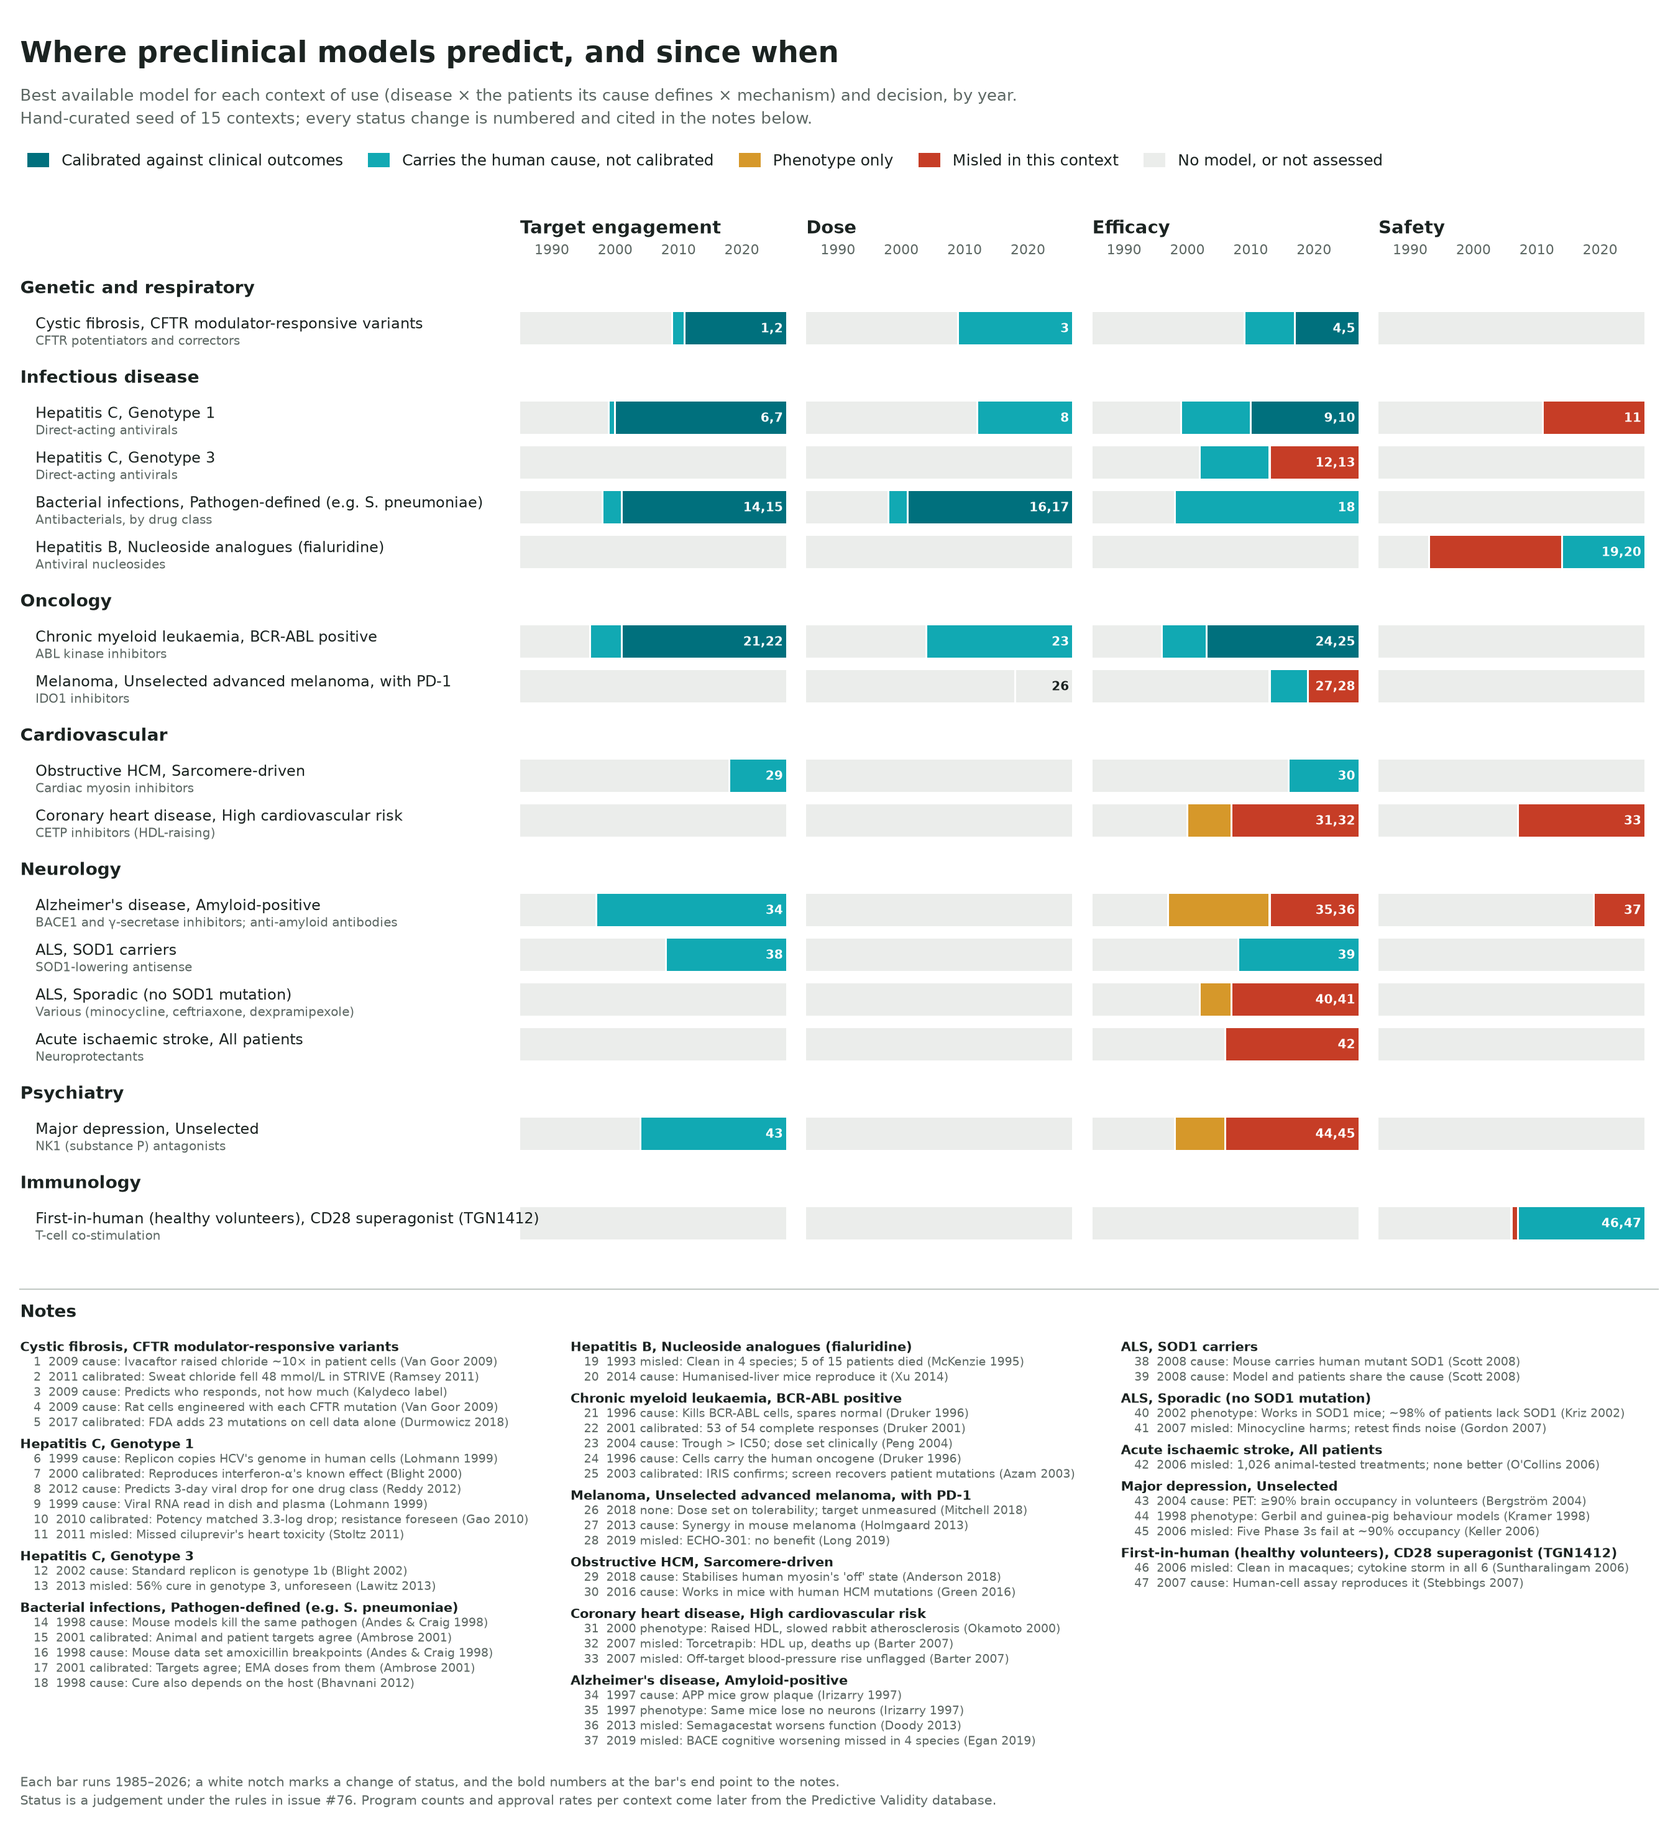
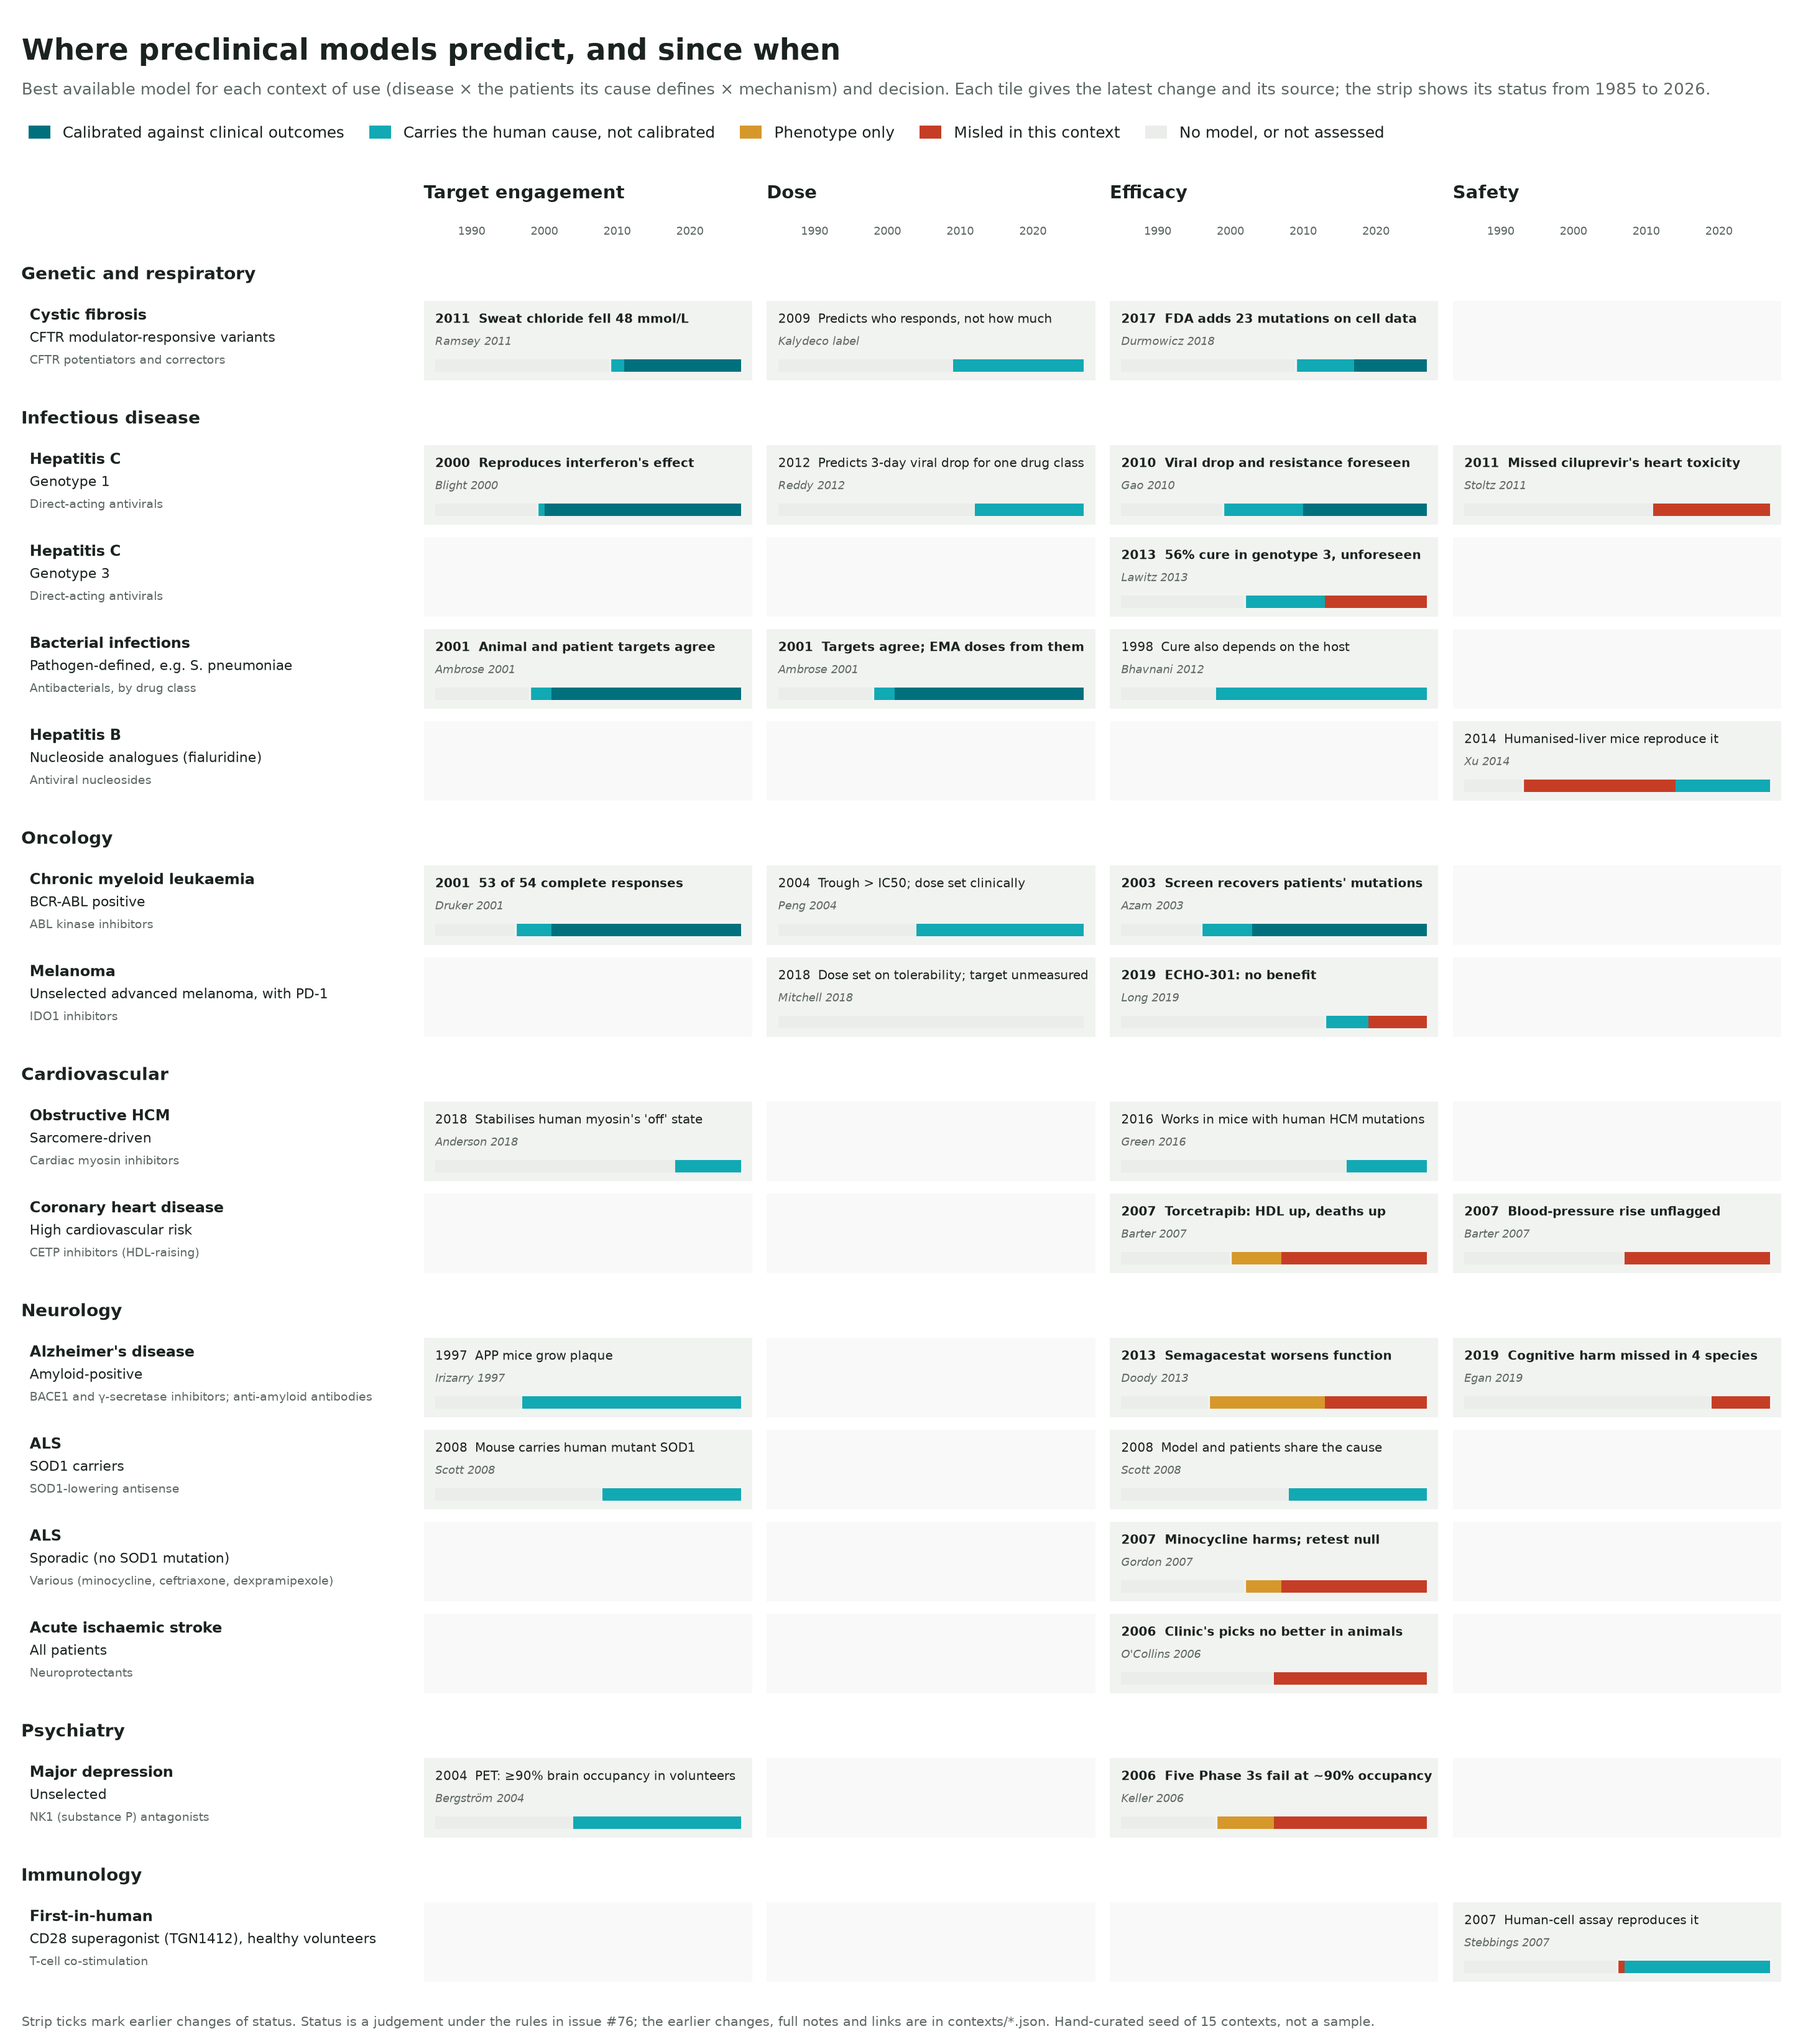
Atlas figure: one tile per cell with its latest change, source and a status-by-year strip

diff --git a/analyses/model-system-atlas/figure.py b/analyses/model-system-atlas/figure.py
@@ -6,7 +6,7 @@ available preclinical model in every year from 1985 to 2026.
 Reads one JSON file per context from contexts/ and writes atlas.png beside this file. Each context
 file holds `cells`: for each decision, a list of {year, status, note, src} entries, each the year the
 best model reached that status. A cell's status in a year is that of the latest entry at or before it.
-Every entry is numbered on its bar and listed with its note and source below the matrix.
+Each tile shows the cell's latest change (year, short note, source) above a strip of its status by year.
 """
 
 import glob
@@ -26,6 +26,7 @@ STATUS = {
     "misled": ("#c63d26", "Misled in this context"),
     "none": ("#ebedeb", "No model, or not assessed"),
 }
+TILE, TILE_EMPTY = "#f1f3f1", "#f8f9f8"
 SHORT = {"cal": "calibrated", "cause": "cause", "pheno": "phenotype", "misled": "misled", "none": "none"}
 INK, MUTED, RULE = "#1b2321", "#5c6763", "#c4cbc7"
 
@@ -52,112 +53,75 @@ def spans(history):
 
 def main():
     rows = load()
-    layout = []  # ("area", name) or ("ctx", row)
+    layout = []  # ("area", name) or ("ctx", row), each with its height in inches
     for r in rows:
-        if not any(k == "area" and v == r["area"] for k, v in layout):
-            layout.append(("area", r["area"]))
-        layout.append(("ctx", r))
+        if not any(k == "area" and v == r["area"] for k, v, _ in layout):
+            layout.append(("area", r["area"], 0.42))
+        layout.append(("ctx", r, 0.74))
 
-    # Number every status change, row by row and decision by decision; the notes block lists them.
-    notes, cell_nums = [], {}
-    for kind, item in layout:
-        if kind == "area":
-            continue
-        for key, title in DECISIONS:
-            for h in sorted(item["cells"].get(key, []), key=lambda h: h["year"]):
-                notes.append((len(notes) + 1, item, title, h))
-                cell_nums.setdefault((id(item), key), []).append(len(notes))
-    # Notes grouped by context, in three columns.
-    blocks, cur = [], None
-    for num, item, title, h in notes:
-        if item is not cur:
-            blocks.append([f"{item['disease']}, {item['population']}"])
-            cur = item
-        blocks[-1].append(f"{num}  {h['year']} {SHORT[h['status']]}: {h['short']} ({h.get('srcLabel', 'source')})")
-    ncol = 3
-    target = sum(len(b) for b in blocks) / ncol
-    cols, acc = [[]], 0
-    for blk in blocks:
-        if acc >= target and len(cols) < ncol:
-            cols.append([]); acc = 0
-        cols[-1].append(blk); acc += len(blk)
-    line_h = 0.122
-    notes_h = 0.42 + line_h * max(sum(len(b) + 0.4 for b in c) for c in cols)
+    head_h, foot_h = 1.95, 0.45
+    matrix_h = sum(h for _, _, h in layout)
+    W = 14.5
+    fig_h = head_h + matrix_h + foot_h
+    fig = plt.figure(figsize=(W, fig_h), dpi=200)
+    fy = lambda inches_from_top: 1 - inches_from_top / fig_h
+    label_w, gap = 0.235, 0.008
+    col_w = (1 - label_w - 0.012 - gap * 3) / 4
 
-    n = len(layout)
-    row_h, head_h, foot_h = 0.36, 2.1, 0.55
-    matrix_h = row_h * n
-    fig_h = head_h + matrix_h + 0.35 + notes_h + foot_h
-    fig = plt.figure(figsize=(13.5, fig_h), dpi=200)
-    y = lambda inches_from_top: 1 - inches_from_top / fig_h
-    top, bottom = y(head_h), y(head_h + matrix_h)
-    label_w, gap = 0.31, 0.012
-    panel_w = (1 - label_w - 0.02 - gap * 3) / 4
+    fig.text(0.012, fy(0.3), "Where preclinical models predict, and since when", fontsize=17, fontweight="bold", color=INK, va="top")
+    fig.text(0.012, fy(0.66),
+             "Best available model for each context of use (disease × the patients its cause defines × mechanism) and decision. "
+             "Each tile gives the latest change and its source; the strip shows its status from 1985 to 2026.",
+             fontsize=9.3, color=MUTED, va="top")
+    handles = [Patch(facecolor=c, edgecolor="none", label=l) for k, (c, l) in STATUS.items()]
+    fig.legend(handles=handles, loc="upper left", bbox_to_anchor=(0.008, fy(0.9)), ncol=5, frameon=False,
+               fontsize=9, handlelength=1.4, handleheight=0.9, columnspacing=1.6, labelcolor=INK)
 
-    fig.text(0.012, y(0.32), "Where preclinical models predict, and since when", fontsize=17, fontweight="bold", color=INK, va="top")
-    fig.text(0.012, y(0.68),
-             "Best available model for each context of use (disease × the patients its cause defines × mechanism) and decision, by year.\n"
-             "Hand-curated seed of 15 contexts; every status change is numbered and cited in the notes below.",
-             fontsize=9.5, color=MUTED, va="top", linespacing=1.4)
-    handles = [Patch(facecolor=c, edgecolor="none", label=l) for c, l in STATUS.values()]
-    fig.legend(handles=handles, loc="upper left", bbox_to_anchor=(0.008, y(1.12)), ncol=5, frameon=False,
-               fontsize=9, handlelength=1.4, handleheight=1.0, columnspacing=1.6, labelcolor=INK)
-
+    lab = fig.add_axes([0, fy(head_h + matrix_h), label_w, (matrix_h) / fig_h])
+    lab.set_xlim(0, 1); lab.set_ylim(matrix_h, 0); lab.axis("off")
+    axes = []
     for j, (key, title) in enumerate(DECISIONS):
-        left = label_w + j * (panel_w + gap)
-        ax = fig.add_axes([left, bottom, panel_w, top - bottom])
-        ax.set_xlim(YEAR0, YEAR1 + 1)
-        ax.set_ylim(n, 0)
-        ax.set_title(title, fontsize=10.5, fontweight="bold", color=INK, loc="left", pad=16)
-        ax.xaxis.tick_top()
-        ax.set_xticks([1990, 2000, 2010, 2020])
-        ax.tick_params(axis="x", labelsize=8, colors=MUTED, length=0, pad=2)
-        ax.set_yticks([])
-        for s in ax.spines.values():
-            s.set_visible(False)
-        for i, (kind, item) in enumerate(layout):
-            if kind == "area":
-                continue
-            runs = spans(item["cells"].get(key, []))
-            for a, b, st in runs:
-                ax.add_patch(Rectangle((a, i + 0.14), b - a, 0.72, facecolor=STATUS[st][0], edgecolor="none", zorder=2))
-            for h in item["cells"].get(key, []):
-                if YEAR0 < h["year"] <= YEAR1:
-                    ax.add_patch(Rectangle((h["year"] - 0.15, i + 0.14), 0.3, 0.72, facecolor="white", edgecolor="none", zorder=4))
-            nums = cell_nums.get((id(item), key))
-            if nums:
-                ink = INK if runs[-1][2] == "none" else "white"
-                ax.text(YEAR1 + 0.5, i + 0.52, ",".join(map(str, nums)), fontsize=7.2, fontweight="bold", color=ink,
-                        ha="right", va="center", zorder=5)
+        ax = fig.add_axes([label_w + j * (col_w + gap), fy(head_h + matrix_h), col_w, matrix_h / fig_h])
+        ax.set_xlim(0, 1); ax.set_ylim(matrix_h, 0); ax.axis("off")
+        fig.text(label_w + j * (col_w + gap), fy(head_h - 0.32), title, fontsize=10.5, fontweight="bold", color=INK, va="bottom")
+        axes.append((key, ax))
 
-    lab = fig.add_axes([0.0, bottom, label_w - 0.008, top - bottom])
-    lab.set_xlim(0, 1)
-    lab.set_ylim(n, 0)
-    lab.axis("off")
-    for i, (kind, item) in enumerate(layout):
+    x0, x1 = 0.035, 0.965
+    yx = lambda yr: x0 + (x1 - x0) * (yr - YEAR0) / (YEAR1 + 1 - YEAR0)
+    top = 0.0
+    for kind, item, h in layout:
         if kind == "area":
-            lab.text(0.04, i + 0.62, item, fontsize=10, fontweight="bold", color=INK, va="center")
+            lab.text(0.05, top + h * 0.62, item, fontsize=10, fontweight="bold", color=INK, va="center")
+            top += h
             continue
-        lab.text(0.07, i + 0.42, f"{item['disease']}, {item['population']}", fontsize=8.6, color=INK, va="center")
-        lab.text(0.07, i + 0.80, item["mechanism"], fontsize=7.2, color=MUTED, va="center")
+        t0, t1 = top + 0.05, top + h - 0.05
+        lab.text(0.07, t0 + 0.12, item["disease"], fontsize=8.6, fontweight="bold", color=INK, va="center")
+        lab.text(0.07, t0 + 0.3, item["population"], fontsize=8, color=INK, va="center")
+        lab.text(0.07, t0 + 0.48, item["mechanism"], fontsize=7, color=MUTED, va="center")
+        for key, ax in axes:
+            hist = sorted(item["cells"].get(key, []), key=lambda e: e["year"])
+            ax.add_patch(Rectangle((0, t0), 1, t1 - t0, facecolor=TILE if hist else TILE_EMPTY, edgecolor="none"))
+            if not hist:
+                continue
+            last = hist[-1]
+            ax.text(x0, t0 + 0.15, f"{last['year']}  {last['short']}", fontsize=7.3, color=INK, va="center",
+                    fontweight="bold" if last["status"] in ("cal", "misled") else "normal")
+            ax.text(x0, t0 + 0.33, last.get("srcLabel", ""), fontsize=6.6, color=MUTED, va="center", style="italic")
+            sy, sh = t1 - 0.17, 0.1
+            for a, b, st in spans(hist):
+                ax.add_patch(Rectangle((yx(a), sy), yx(b) - yx(a), sh, facecolor=STATUS[st][0], edgecolor="none"))
+            for e in hist[:-1]:
+                ax.plot([yx(e["year"])] * 2, [sy - 0.03, sy + sh + 0.03], color=TILE, lw=1.2)
+        top += h
 
-    notes_top = head_h + matrix_h + 0.35
-    fig.add_artist(plt.Line2D([0.012, 0.988], [y(notes_top), y(notes_top)], color=RULE, lw=0.8))
-    fig.text(0.012, y(notes_top + 0.12), "Notes", fontsize=10, fontweight="bold", color=INK, va="top")
-    for c, x0 in zip(cols, (0.012, 0.34, 0.668)):
-        cursor = notes_top + 0.42
-        for blk in c:
-            fig.text(x0, y(cursor), blk[0], fontsize=7.4, fontweight="bold", color=INK, va="top")
-            cursor += line_h
-            for line in blk[1:]:
-                fig.text(x0 + 0.008, y(cursor), line, fontsize=7, color=MUTED, va="top")
-                cursor += line_h
-            cursor += 0.4 * line_h
+    for key, ax in axes:
+        for yr in (1990, 2000, 2010, 2020):
+            ax.text(yx(yr), -0.04, str(yr), fontsize=6.6, color=MUTED, ha="center", va="bottom")
 
-    fig.text(0.012, y(fig_h - 0.12),
-             "Each bar runs 1985–2026; a white notch marks a change of status, and the bold numbers at the bar's end point to the notes.\n"
-             "Status is a judgement under the rules in issue #76. Program counts and approval rates per context come later from the Predictive Validity database.",
-             fontsize=7.6, color=MUTED, va="bottom", linespacing=1.4)
+    fig.text(0.012, fy(fig_h - 0.12),
+             "Strip ticks mark earlier changes of status. Status is a judgement under the rules in issue #76; the earlier changes, full notes and links are in contexts/*.json. "
+             "Hand-curated seed of 15 contexts, not a sample.",
+             fontsize=7.6, color=MUTED, va="bottom")
     out = os.path.join(HERE, "atlas.png")
     fig.savefig(out, facecolor="white")
     print(out)
